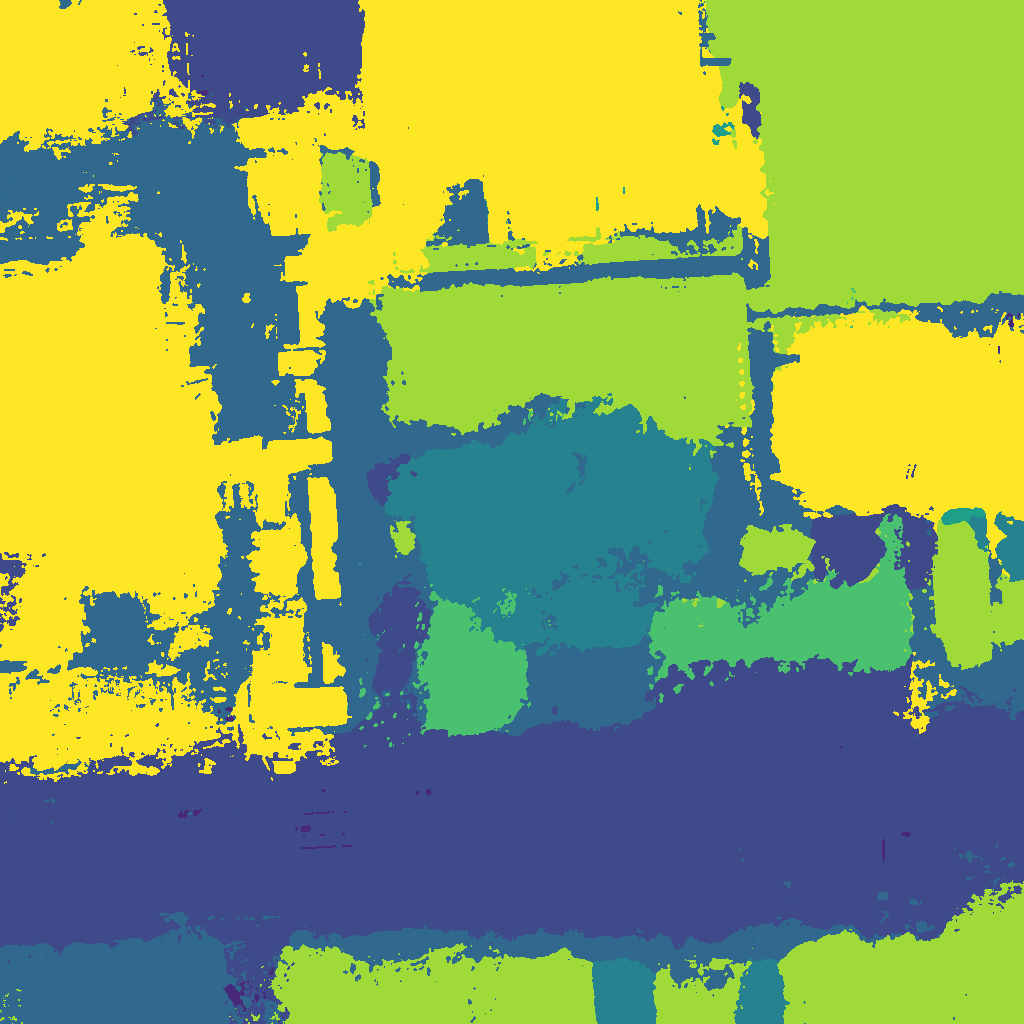
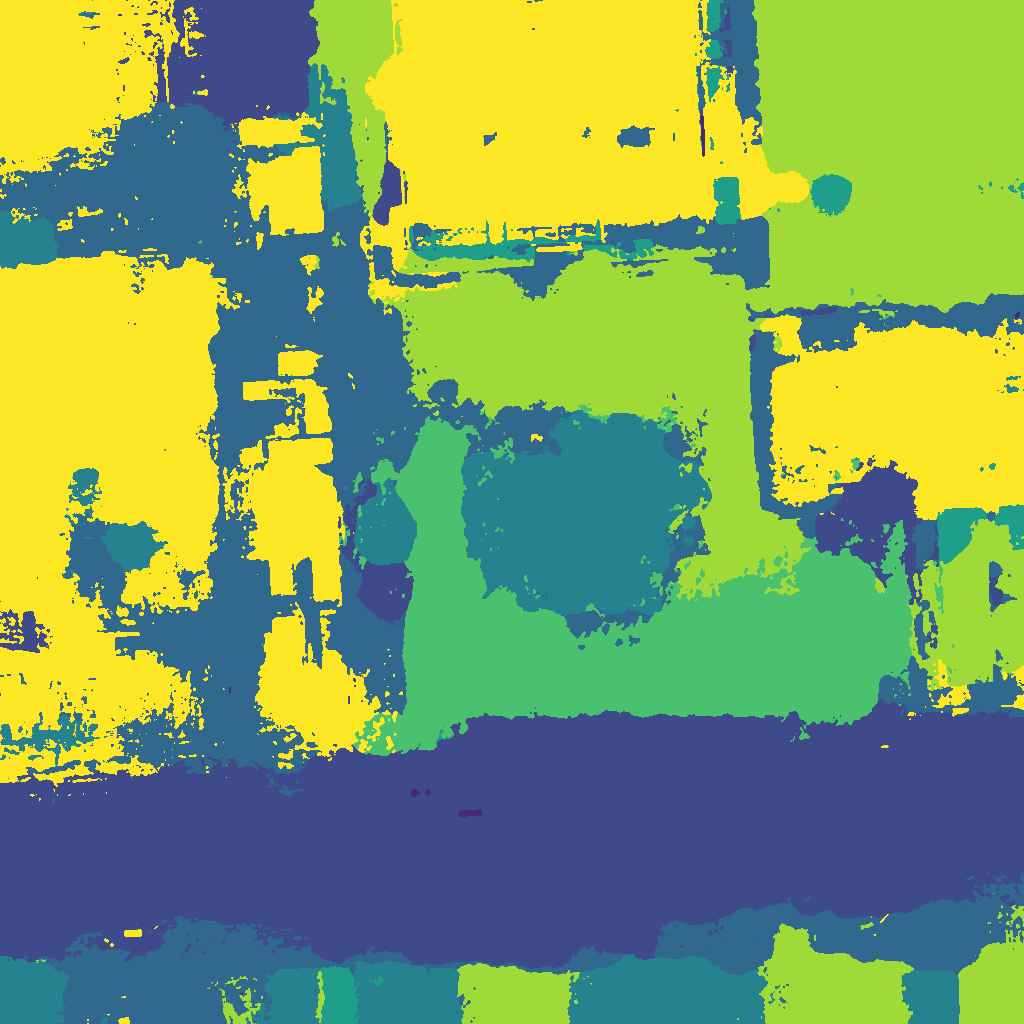
emmm

diff --git a/dino_splat_ov/asset/vis/1.html b/dino_splat_ov/asset/vis/1.html
@@ -4,38 +4,57 @@
         margin: 0;
     }
 
-    ul {
-        list-style: none;
-        width: 100%;
-        display: flex;
-        align-items: center;
-        justify-content: center;
-        /* border-radius: 5px; */
-        padding: 0 10px;
+    * {
+        padding: 0;
+        margin: 0;
         box-sizing: border-box;
-        position: relative;
+    }
 
+    /* 每一组4张图：2行2列网格 */
+    ul {
+        display: grid;
+        grid-template-columns: 1fr 1fr;
+        grid-template-rows: 1fr 1fr;
+        gap: 2px;
+        /* 图片之间间距，按需修改 */
+        max-width: 600px;
+        /* 整组最大宽度，按需调整 */
+        padding: 5px;
     }
 
     ul li {
-        flex: 1;
-        /* background: #eee; */
-        padding: 5px;
-        text-align: center;
-        justify-content: center;
-        align-items: center;
-        /* margin: 5px; */
+        list-style: none;
+        position: relative;
+        /* width: 100%;
+        aspect-ratio: 1 / 1; */
     }
 
     ul li img {
         width: 100%;
-
+        height: 100%;
+        /* 强制正方形 */
+        aspect-ratio: 1 / 1;
+        object-fit: cover;
+        /* 等比例填满正方形，超出部分裁剪；不想裁剪改为 contain */
+        display: block;
+        overflow: hidden;
     }
 
-    p {
-        writing-mode: vertical-rl;
-        text-orientation: upright;
-        font-size: 14px;
+    .wrap {
+        display: flex;
+    }
+
+    li p {
+        position: absolute;
+        top: 2px;
+        left: 2px;
+        background: #fff;
+        font-size: 12px;
+        line-height: 12px;
+        padding: 1px;
+    }
+    b{
+        padding: 5px;
     }
 </style>
 <!-- <ul>
@@ -44,24 +63,77 @@
     <li>SegEarth-OV</li>
     <li>DinoSplat-OV(ours)</li>
 </ul> -->
-<ul>
-    <li><img src="./img.jpg" alt=""></li>
-    <li><img src="./img_dinotxt.png" alt=""></li>
-    <li><img src="./img_ours.png" alt=""></li>
-    <li><img src="./seg_img.png" alt=""></li>
-    <li><img src="./img_dino.png" alt=""></li>
-</ul>
-<ul>
-    <li><img src="./_3558.png" alt=""></li>
-    <li><img src="./_3558_dinotxt.png" alt=""></li>
-    <li><img src="./_3558_ours.png" alt=""></li>
-    <li><img src="./seg_3558.png" alt=""></li>
-    <li><img src="./_3558_dino.png" alt=""></li>
-</ul>
-<ul>
-    <li><img src="./P0492.png" alt=""></li>
-    <li><img src="./P0492_dinotxt.png" alt=""></li>
-    <li><img src="./P0492_ours.png" alt=""></li>
-    <li><img src="./seg_P0492.png" alt=""></li>
-    <li><img src="./P0492_dino.png" alt=""></li>
-</ul>
+<div class="wrap">
+    <div>
+        <b>DOTA</b>
+        <ul>
+            <li><img src="./origin/img.jpg" alt="">
+                <p>Orgin</p>
+            </li>
+            <li><img src="./clearclip/img_ours.png" alt="">
+                <p>ClearCLIP</p>
+            </li>
+            <li><img src="./segearthov/seg_img.png" alt="">
+                <p>SegEarth-OV</p>
+            </li>
+            <li><img src="./dino/img_dino.png" alt="">
+                <p>Ours</p>
+            </li>
+        </ul>
+    </div>
+
+    <div>
+        <b>UDD5</b>
+        <ul>
+            <li><img src="./origin/P0492.png" alt="">
+                <p>Orgin</p>
+            </li>
+            <li><img src="./clearclip/P0492_ours.png" alt="">
+                <p>ClearCLIP</p>
+            </li>
+            <li><img src="./segearthov/seg_P0492.png.png" alt="">
+                <p>SegEarth-OV</p>
+            </li>
+            <li><img src="./dino/P0492_dino.png" alt="">
+                <p>Ours</p>
+            </li>
+
+        </ul>
+    </div>
+
+    <div>
+        <b>LoveDA</b>
+        <ul>
+            <li><img src="./origin/_3609.png" alt="">
+                <p>Orgin</p>
+            </li>
+            <li><img src="./clearclip/_3609_ours.png" alt="">
+                <p>ClearCLIP</p>
+            </li>
+            <li><img src="./segearthov/seg__3609.png.png" alt="">
+                <p>SegEarth-OV</p>
+            </li>
+            <li><img src="./dino/_3609_ours.png" alt="">
+                <p>Ours</p>
+            </li>
+
+        </ul>
+    </div>
+    <div>
+        <b>Vaihingen</b>
+        <ul>
+            <li><img src="./origin/000.png" alt="">
+                <p>Orgin</p>
+            </li>
+            <li><img src="./clearclip/000_ours.png" alt="">
+                <p>ClearCLIP</p>
+            </li>
+            <li><img src="./segearthov/seg_000.tif.png" alt="">
+                <p>SegEarth-OV</p>
+            </li>
+            <li><img src="./dino/000_ours.png" alt="">
+                <p>Ours</p>
+            </li>
+        </ul>
+    </div>
+</div>

diff --git a/dino_splat_ov/infer.py b/dino_splat_ov/infer.py
@@ -24,11 +24,11 @@ device = "cuda" if torch.cuda.is_available() else "cpu"
 model = model.to(device).eval()
 
 
-win_size = 144
-stride = 72
+win_size = 100
+stride = 50
 class_groups = [
     ["bus,car"],
-    ["road", "pavement"],
+    ["road",],
     ["bareland", "barren"],
     ["river", "water", "pool"],
     ["grass"],
